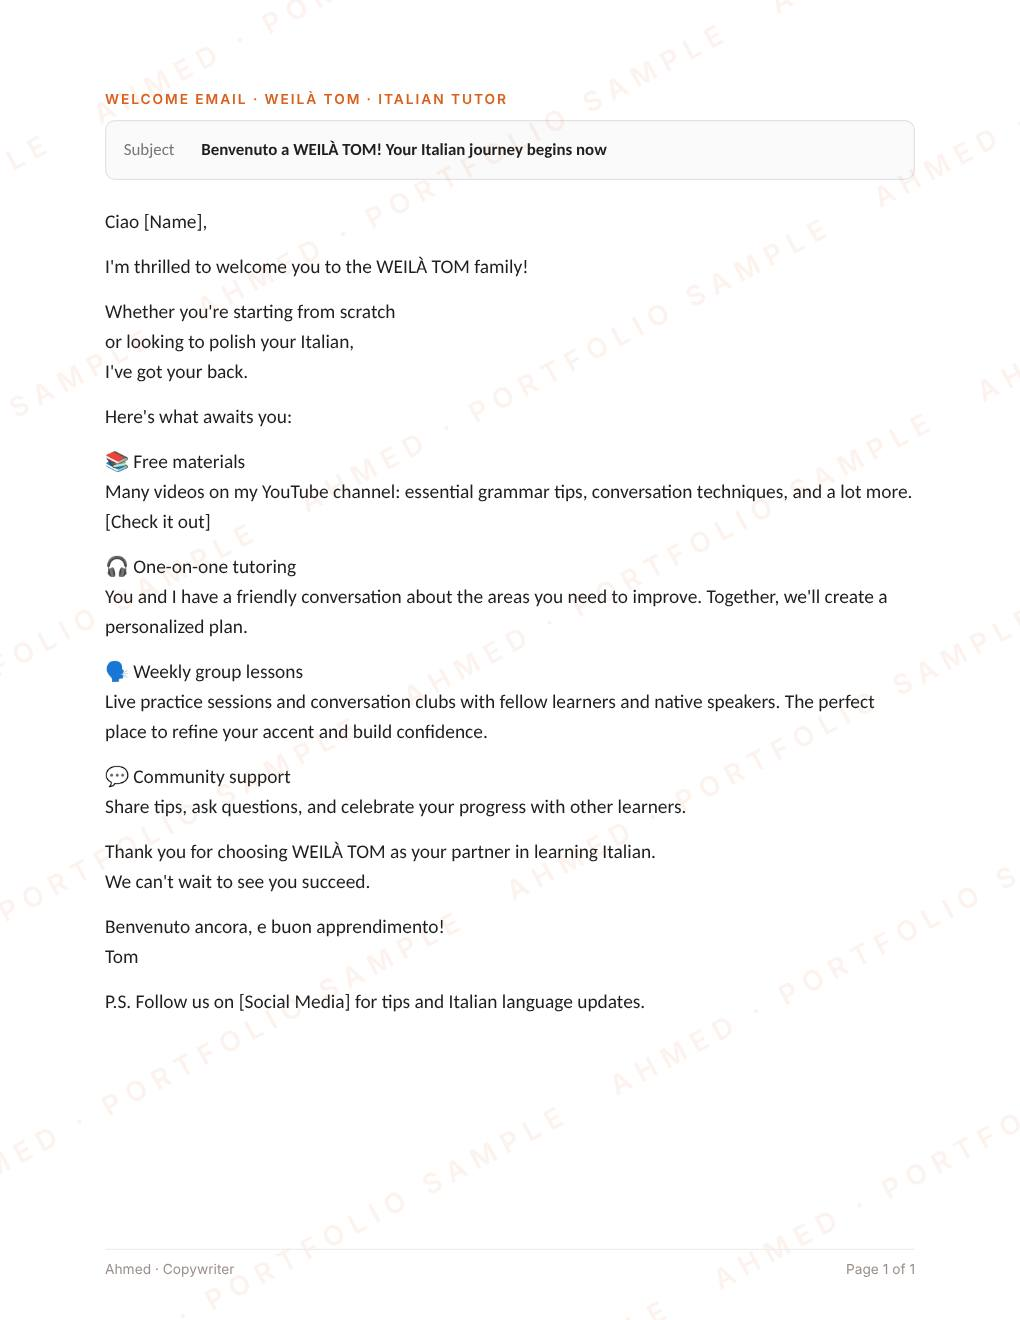
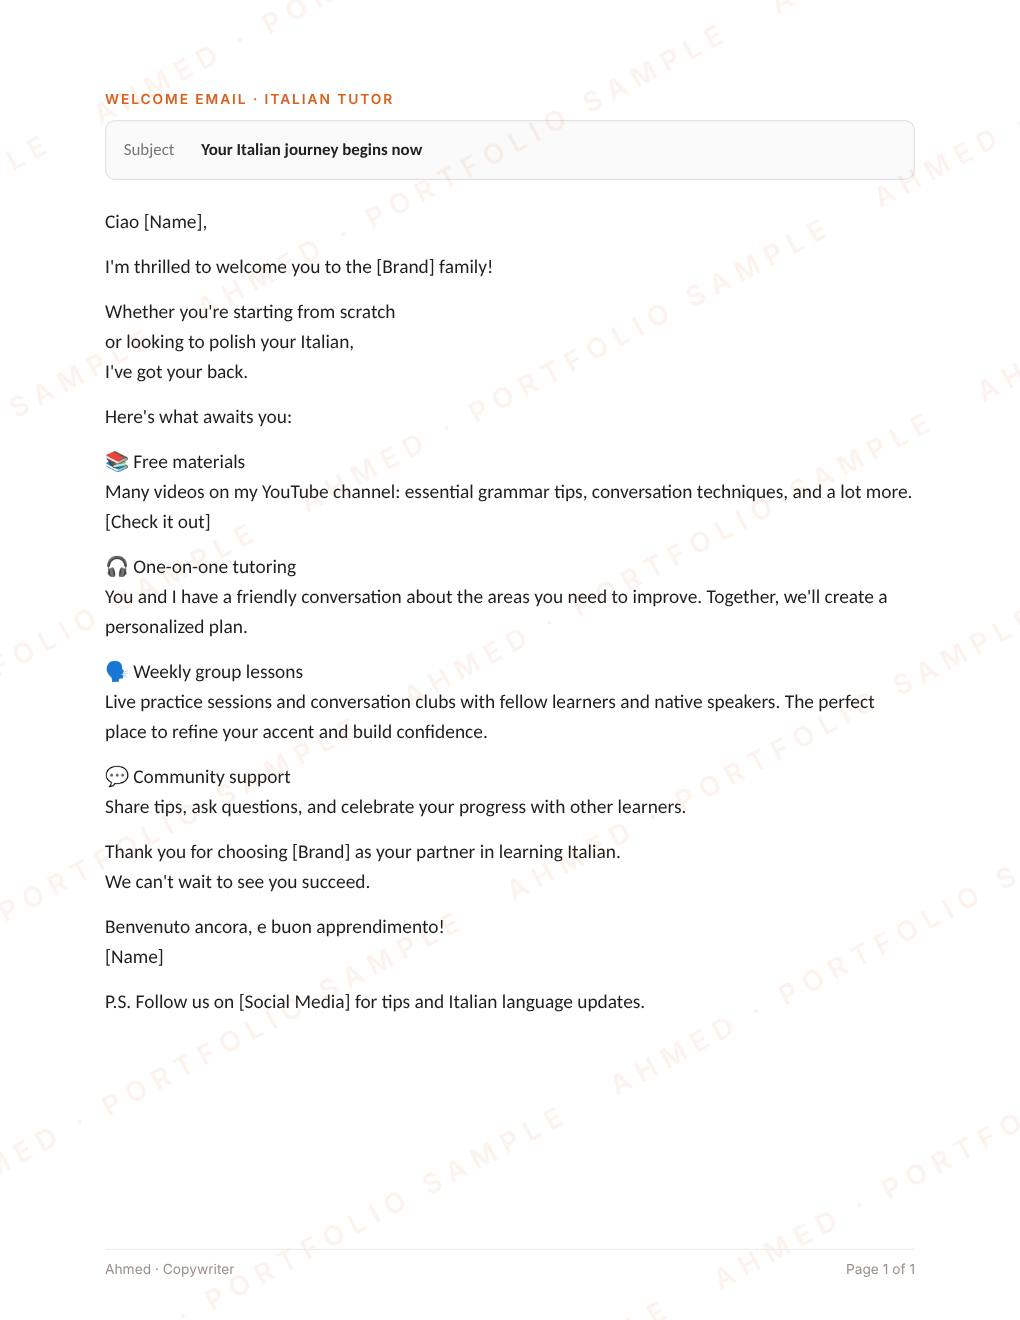
Replace sample brand names with neutral labels
Claude-Session: https://claude.ai/code/session_011yUh9b3yd9T1gQfVEYfghd

diff --git a/index.html b/index.html
@@ -263,7 +263,7 @@ dialog::backdrop{background:rgba(30,20,14,.6)}
 </dialog>
 
 <script>
-const DATA = {"launch": [["work/launch-0-1.jpg", "work/launch-0-2.jpg"], ["work/launch-1-1.jpg"], ["work/launch-2-1.jpg"], ["work/launch-3-1.jpg"], ["work/launch-4-1.jpg"], ["work/launch-5-1.jpg"], ["work/launch-6-1.jpg"]], "ziina": ["work/w00-1.jpg", "work/w00-2.jpg"], "roma": ["work/w01-1.jpg", "work/w01-2.jpg"], "more": [{"title": "Andiamo a fare shopping insieme!", "type": "email", "lang": "IT", "kind": "Promo email", "client": "Fun and Easy Italian", "job": "Drives views to a new YouTube lesson with a small cliffhanger, then turns the lesson's method into a reason to buy the book.", "jobIt": "Porta visualizzazioni a una nuova lezione su YouTube con un piccolo cliffhanger, poi trasforma il metodo della lezione in un motivo per comprare il libro.", "pages": ["work/w02-1.jpg", "work/w02-2.jpg"]}, {"title": "Perché sei bloccato con l'italiano (e come sbloccarlo)", "type": "email", "lang": "IT", "kind": "Sales email", "client": "Italian course creator", "job": "Speaks to intermediate learners stuck on the plateau, names the feeling, then sells the course as the way out.", "jobIt": "Parla agli studenti intermedi fermi al plateau, dà un nome a quella sensazione e presenta il corso come via d'uscita.", "pages": ["work/w03-1.jpg"]}, {"title": "La verità sull'apprendimento dell'italiano (non è la grammatica)", "type": "email", "lang": "IT", "kind": "Sales email", "client": "Italian course creator", "job": "Challenges a belief the reader holds (grammar first) and replaces it with the course's approach.", "jobIt": "Mette in discussione una convinzione del lettore (prima la grammatica) e la sostituisce con l'approccio del corso.", "pages": ["work/w04-1.jpg"]}, {"title": "Ecco il tuo eBook, (Nome)", "type": "email", "lang": "IT", "kind": "Welcome email", "client": "Fun and Easy Italian", "job": "Delivers a free lead magnet and asks for one small action that protects deliverability: add the sender to contacts.", "jobIt": "Consegna un lead magnet gratuito e chiede una piccola azione che protegge la deliverability: aggiungere il mittente ai contatti.", "pages": ["work/w05-1.jpg"]}, {"title": "Are you making this mistake with Italian?", "type": "email", "lang": "EN", "kind": "Sequence opener", "client": "Italian course creator", "job": "The first email of a sequence: builds the dream of Italy, lets reality hit, and opens a loop for the emails that follow.", "jobIt": "La prima email di una sequenza: costruisce il sogno dell'Italia, fa arrivare la realtà e apre un loop per le email successive.", "pages": ["work/w06-1.jpg"]}, {"title": "Your SOLO guide to learning Italian", "type": "email", "lang": "EN", "kind": "Newsletter", "client": "Language-learning newsletter", "job": "Gives real value (five practical habits) and uses it to grow the newsletter list.", "jobIt": "Offre valore vero (cinque abitudini pratiche) e lo usa per far crescere la lista della newsletter.", "pages": ["work/w07-1.jpg", "work/w07-2.jpg"]}, {"title": "Watering plants made me a polyglot", "type": "email", "lang": "EN", "kind": "Newsletter · 2 drafts", "client": "Language-learning newsletter", "job": "A story about patience that sells a free newsletter. Shown here as the tightened second draft: cut from 300+ to about 150 words.", "jobIt": "Una storia sulla pazienza che vende una newsletter gratuita. Qui la seconda bozza, ridotta da oltre 300 a circa 150 parole.", "pages": ["work/w08-1.jpg"]}, {"title": "You have a GOLDMINE but you're wasting it", "type": "email", "lang": "EN", "kind": "Lead magnet email", "client": "Language-learning creator", "job": "Reframes languages as income, shares a personal failure story, and sends readers to a free 30-minute guide.", "jobIt": "Presenta le lingue come fonte di guadagno, racconta un fallimento personale e porta a una guida gratuita di 30 minuti.", "pages": ["work/w09-1.jpg"]}, {"title": "Benvenuto a WEILÀ TOM! Your Italian journey begins now", "type": "email", "lang": "EN", "kind": "Welcome email", "client": "WEILÀ TOM · Italian tutor", "job": "Welcomes new subscribers and walks them through every way to learn with the tutor, from free videos to 1:1 lessons.", "jobIt": "Accoglie i nuovi iscritti e mostra tutti i modi per imparare con l'insegnante, dai video gratuiti alle lezioni private.", "pages": ["work/w10-1.jpg"]}, {"title": "Getting WICKED is how to lose weight", "type": "email", "lang": "EN", "kind": "Lead magnet email", "client": "Keto cookbook offer", "job": "Outside my main niche: handles every objection (boring, budget, doing it alone, price) before giving away a free cookbook.", "jobIt": "Fuori dalla mia nicchia: risponde a ogni obiezione (noia, budget, fare tutto da soli, prezzo) prima di regalare un ricettario.", "pages": ["work/w11-1.jpg", "work/w11-2.jpg"]}, {"title": "Why you will NEVER make a PENNY online", "type": "email", "lang": "EN", "kind": "Sales email", "client": "Tom Stoic · Online business", "job": "A tough-love email for a skeptical audience: blames the reader, not the business model, then offers a free course.", "jobIt": "Un'email dura per un pubblico scettico: dà la colpa al lettore, non al modello di business, poi offre un corso gratuito.", "pages": ["work/w12-1.jpg", "work/w12-2.jpg"]}, {"title": "10 Tips to Master the English Language", "type": "content", "lang": "EN", "kind": "Blog article", "client": "Language-learning blog", "job": "A long-form SEO guide for learners, written from my own experience learning English and Italian.", "jobIt": "Una guida SEO lunga per chi studia l'inglese, scritta dalla mia esperienza con l'inglese e l'italiano.", "pages": ["work/w13-1.jpg", "work/w13-2.jpg", "work/w13-3.jpg", "work/w13-4.jpg", "work/w13-5.jpg", "work/w13-6.jpg"]}, {"title": "Why Is Your Brain Showing You a Smiling Coffee?", "type": "content", "lang": "EN", "kind": "Blog article", "client": "Popular science blog", "job": "Explains pareidolia through an everyday moment, so a science topic reads like a story.", "jobIt": "Spiega la pareidolia partendo da un momento quotidiano, così un tema scientifico si legge come una storia.", "pages": ["work/w14-1.jpg", "work/w14-2.jpg"]}, {"title": "Neuroplasticity: How Do We Learn New Things?", "type": "content", "lang": "EN", "kind": "Blog article", "client": "Popular science blog", "job": "Breaks down how the brain rewires itself, in plain language, and ties it back to learning a language.", "jobIt": "Spiega con parole semplici come il cervello si riorganizza e lo collega all'apprendimento delle lingue.", "pages": ["work/w15-1.jpg", "work/w15-2.jpg"]}, {"title": "Memories Are Made by \"Damaging\" Our DNA", "type": "content", "lang": "EN", "kind": "Blog article", "client": "Popular science blog", "job": "Turns a 2024 Nature study into a clear, readable story for a general audience.", "jobIt": "Trasforma uno studio pubblicato su Nature in una storia chiara per un pubblico generale.", "pages": ["work/w16-1.jpg", "work/w16-2.jpg"]}], "also": ["What Is Sleeping and How Does It Happen?", "The Science Behind Fasting", "What Are \"Hope Molecules\" That Your Body Produces?", "Misfolded Proteins May Make Dementia \"Contagious\"", "Déjà Vu: Why Do We Remember What We Did Not Do?", "Heterochromia Iridium: The Two-Colored Eyes", "Can Men and Women Be \"Just Friends\"?", "Ripe Fruit Odor May Inhibit Cancer Cell Growth", "Depressed Women Are More Likely to Develop Heart Disease"]};
+const DATA = {"launch": [["work/launch-0-1.jpg", "work/launch-0-2.jpg"], ["work/launch-1-1.jpg"], ["work/launch-2-1.jpg"], ["work/launch-3-1.jpg"], ["work/launch-4-1.jpg"], ["work/launch-5-1.jpg"], ["work/launch-6-1.jpg"]], "ziina": ["work/w00-1.jpg", "work/w00-2.jpg"], "roma": ["work/w01-1.jpg", "work/w01-2.jpg"], "more": [{"title": "Andiamo a fare shopping insieme!", "type": "email", "lang": "IT", "kind": "Promo email", "client": "Fun and Easy Italian", "job": "Drives views to a new YouTube lesson with a small cliffhanger, then turns the lesson's method into a reason to buy the book.", "jobIt": "Porta visualizzazioni a una nuova lezione su YouTube con un piccolo cliffhanger, poi trasforma il metodo della lezione in un motivo per comprare il libro.", "pages": ["work/w02-1.jpg", "work/w02-2.jpg"]}, {"title": "Perché sei bloccato con l'italiano (e come sbloccarlo)", "type": "email", "lang": "IT", "kind": "Sales email", "client": "Italian course creator", "job": "Speaks to intermediate learners stuck on the plateau, names the feeling, then sells the course as the way out.", "jobIt": "Parla agli studenti intermedi fermi al plateau, dà un nome a quella sensazione e presenta il corso come via d'uscita.", "pages": ["work/w03-1.jpg"]}, {"title": "La verità sull'apprendimento dell'italiano (non è la grammatica)", "type": "email", "lang": "IT", "kind": "Sales email", "client": "Italian course creator", "job": "Challenges a belief the reader holds (grammar first) and replaces it with the course's approach.", "jobIt": "Mette in discussione una convinzione del lettore (prima la grammatica) e la sostituisce con l'approccio del corso.", "pages": ["work/w04-1.jpg"]}, {"title": "Ecco il tuo eBook, (Nome)", "type": "email", "lang": "IT", "kind": "Welcome email", "client": "Fun and Easy Italian", "job": "Delivers a free lead magnet and asks for one small action that protects deliverability: add the sender to contacts.", "jobIt": "Consegna un lead magnet gratuito e chiede una piccola azione che protegge la deliverability: aggiungere il mittente ai contatti.", "pages": ["work/w05-1.jpg"]}, {"title": "Are you making this mistake with Italian?", "type": "email", "lang": "EN", "kind": "Sequence opener", "client": "Italian course creator", "job": "The first email of a sequence: builds the dream of Italy, lets reality hit, and opens a loop for the emails that follow.", "jobIt": "La prima email di una sequenza: costruisce il sogno dell'Italia, fa arrivare la realtà e apre un loop per le email successive.", "pages": ["work/w06-1.jpg"]}, {"title": "Your SOLO guide to learning Italian", "type": "email", "lang": "EN", "kind": "Newsletter", "client": "Language-learning newsletter", "job": "Gives real value (five practical habits) and uses it to grow the newsletter list.", "jobIt": "Offre valore vero (cinque abitudini pratiche) e lo usa per far crescere la lista della newsletter.", "pages": ["work/w07-1.jpg", "work/w07-2.jpg"]}, {"title": "Watering plants made me a polyglot", "type": "email", "lang": "EN", "kind": "Newsletter · 2 drafts", "client": "Language-learning newsletter", "job": "A story about patience that sells a free newsletter. Shown here as the tightened second draft: cut from 300+ to about 150 words.", "jobIt": "Una storia sulla pazienza che vende una newsletter gratuita. Qui la seconda bozza, ridotta da oltre 300 a circa 150 parole.", "pages": ["work/w08-1.jpg"]}, {"title": "You have a GOLDMINE but you're wasting it", "type": "email", "lang": "EN", "kind": "Lead magnet email", "client": "Language-learning creator", "job": "Reframes languages as income, shares a personal failure story, and sends readers to a free 30-minute guide.", "jobIt": "Presenta le lingue come fonte di guadagno, racconta un fallimento personale e porta a una guida gratuita di 30 minuti.", "pages": ["work/w09-1.jpg"]}, {"title": "Your Italian journey begins now", "type": "email", "lang": "EN", "kind": "Welcome email", "client": "Italian tutor", "job": "Welcomes new subscribers and walks them through every way to learn with the tutor, from free videos to 1:1 lessons.", "jobIt": "Accoglie i nuovi iscritti e mostra tutti i modi per imparare con l'insegnante, dai video gratuiti alle lezioni private.", "pages": ["work/w10-1.jpg"]}, {"title": "Getting WICKED is how to lose weight", "type": "email", "lang": "EN", "kind": "Lead magnet email", "client": "Health & nutrition brand", "job": "Outside my main niche: handles every objection (boring, budget, doing it alone, price) before giving away a free cookbook.", "jobIt": "Fuori dalla mia nicchia: risponde a ogni obiezione (noia, budget, fare tutto da soli, prezzo) prima di regalare un ricettario.", "pages": ["work/w11-1.jpg", "work/w11-2.jpg"]}, {"title": "Why you will NEVER make a PENNY online", "type": "email", "lang": "EN", "kind": "Sales email", "client": "Online business coach", "job": "A tough-love email for a skeptical audience: blames the reader, not the business model, then offers a free course.", "jobIt": "Un'email dura per un pubblico scettico: dà la colpa al lettore, non al modello di business, poi offre un corso gratuito.", "pages": ["work/w12-1.jpg", "work/w12-2.jpg"]}, {"title": "10 Tips to Master the English Language", "type": "content", "lang": "EN", "kind": "Blog article", "client": "Language-learning blog", "job": "A long-form SEO guide for learners, written from my own experience learning English and Italian.", "jobIt": "Una guida SEO lunga per chi studia l'inglese, scritta dalla mia esperienza con l'inglese e l'italiano.", "pages": ["work/w13-1.jpg", "work/w13-2.jpg", "work/w13-3.jpg", "work/w13-4.jpg", "work/w13-5.jpg", "work/w13-6.jpg"]}, {"title": "Why Is Your Brain Showing You a Smiling Coffee?", "type": "content", "lang": "EN", "kind": "Blog article", "client": "Popular science blog", "job": "Explains pareidolia through an everyday moment, so a science topic reads like a story.", "jobIt": "Spiega la pareidolia partendo da un momento quotidiano, così un tema scientifico si legge come una storia.", "pages": ["work/w14-1.jpg", "work/w14-2.jpg"]}, {"title": "Neuroplasticity: How Do We Learn New Things?", "type": "content", "lang": "EN", "kind": "Blog article", "client": "Popular science blog", "job": "Breaks down how the brain rewires itself, in plain language, and ties it back to learning a language.", "jobIt": "Spiega con parole semplici come il cervello si riorganizza e lo collega all'apprendimento delle lingue.", "pages": ["work/w15-1.jpg", "work/w15-2.jpg"]}, {"title": "Memories Are Made by \"Damaging\" Our DNA", "type": "content", "lang": "EN", "kind": "Blog article", "client": "Popular science blog", "job": "Turns a 2024 Nature study into a clear, readable story for a general audience.", "jobIt": "Trasforma uno studio pubblicato su Nature in una storia chiara per un pubblico generale.", "pages": ["work/w16-1.jpg", "work/w16-2.jpg"]}], "also": ["What Is Sleeping and How Does It Happen?", "The Science Behind Fasting", "What Are \"Hope Molecules\" That Your Body Produces?", "Misfolded Proteins May Make Dementia \"Contagious\"", "Déjà Vu: Why Do We Remember What We Did Not Do?", "Heterochromia Iridium: The Two-Colored Eyes", "Can Men and Women Be \"Just Friends\"?", "Ripe Fruit Odor May Inhibit Cancer Cell Growth", "Depressed Women Are More Likely to Develop Heart Disease"]};
 
 /* ============ CASE STUDIES ============ */
 DATA.pando = [["work/pando-0-1.jpg", "work/pando-0-2.jpg"], ["work/pando-1-1.jpg", "work/pando-1-2.jpg"], ["work/pando-2-1.jpg", "work/pando-2-2.jpg"], ["work/pando-3-1.jpg", "work/pando-3-2.jpg"]];
@@ -348,7 +348,7 @@ it:{trusted:"Hanno scelto me",navWork:"Lavori",navR:"Recensioni",readMore:"Leggi
  footer:"© 2026 Ahmed Almakaidy · Copywriter bilingue, inglese e italiano",close:"Chiudi"}
 };
 const KIND_IT={"Landing page":"Landing page","Newsletter":"Newsletter","Promo email":"Email promozionale","Sales email":"Email di vendita","Welcome email":"Email di benvenuto","Sequence opener":"Email di apertura","Newsletter · 2 drafts":"Newsletter · 2 bozze","Lead magnet email":"Email lead magnet","Blog article":"Articolo di blog"};
-const CLIENT_IT={"Italian course creator":"Creatore di corsi di italiano","Language-learning newsletter":"Newsletter sulle lingue","Language-learning creator":"Creator di lingue","WEILÀ TOM · Italian tutor":"WEILÀ TOM · insegnante di italiano","Keto cookbook offer":"Ricettario keto","Tom Stoic · Online business":"Tom Stoic · business online","Language-learning blog":"Blog sulle lingue","Popular science blog":"Blog di divulgazione scientifica"};
+const CLIENT_IT={"Italian course creator":"Creatore di corsi di italiano","Language-learning newsletter":"Newsletter sulle lingue","Language-learning creator":"Creator di lingue","Italian tutor":"Insegnante di italiano","Health & nutrition brand":"Brand di salute e nutrizione","Online business coach":"Coach di business online","Language-learning blog":"Blog sulle lingue","Popular science blog":"Blog di divulgazione scientifica"};
 
 /* ============ helpers ============ */
 const $ = s => document.querySelector(s);
